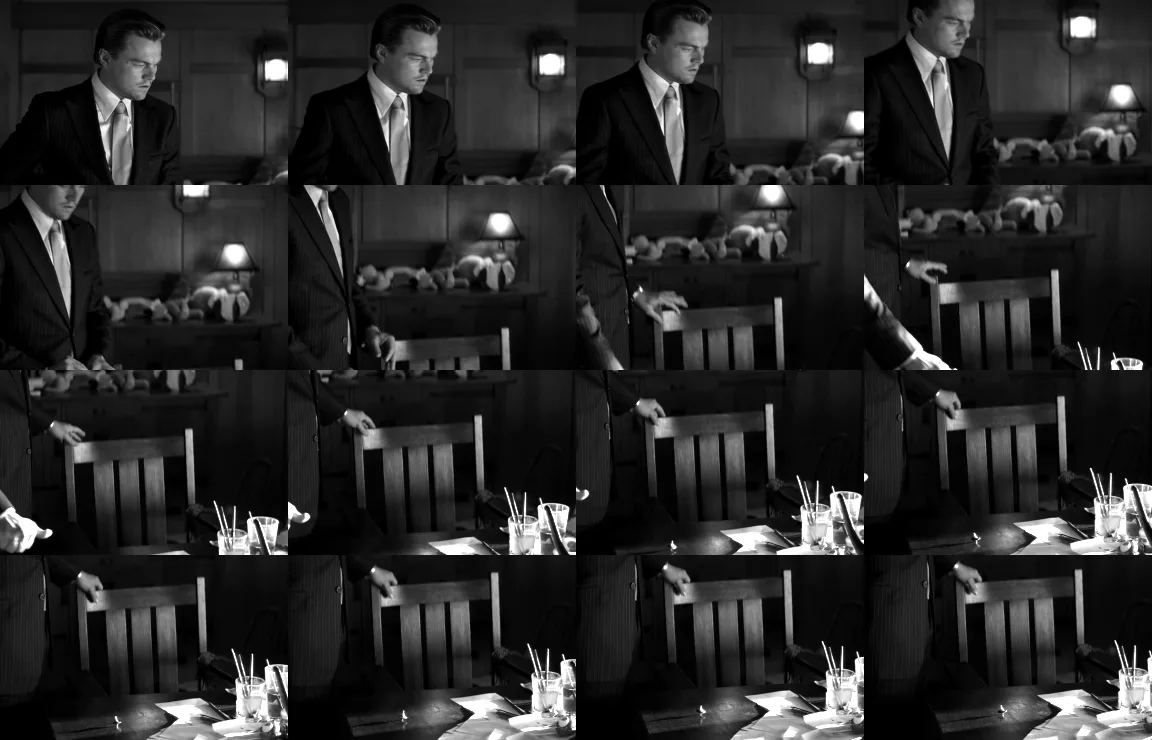
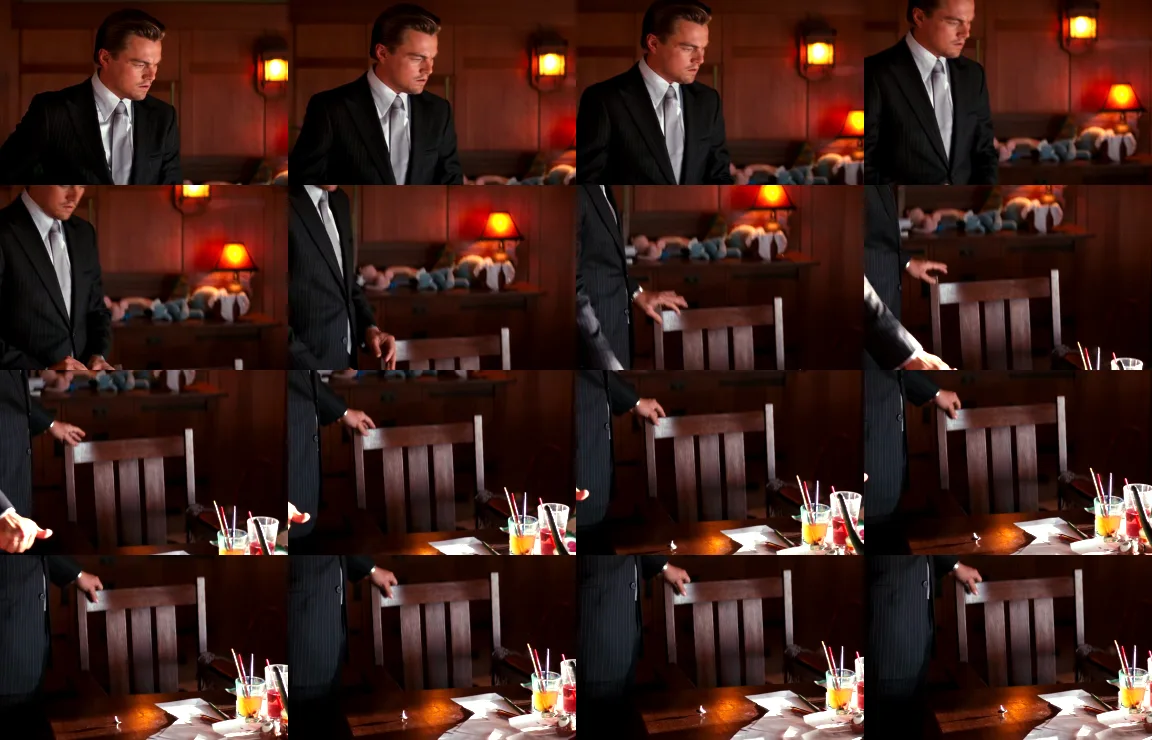
ads spott color

diff --git a/components/landing/film-negatives-scene.ts b/components/landing/film-negatives-scene.ts
@@ -5,8 +5,9 @@ import * as THREE from "three";
  * to edge, rolling through slow waves while the film runs along them. Each
  * strip carries one iconic movie scene, frame by frame, with punched
  * perforations, edge print, a key-code barcode, grain and the odd emulsion
- * scratch. The film is VistaVision:
- * 35 mm run sideways, eight perforations and one wide frame at a time.
+ * scratch. The film is VistaVision: 35 mm run sideways, eight perforations
+ * and one wide frame at a time. Frames print in ink, and bloom into full
+ * colour near the pointer.
  *
  * The strips bend the way real film does: freely across their face (the
  * depth waves), only very gently within their own plane, and with a slow
@@ -124,8 +125,13 @@ const fragment = /* glsl */ `
   uniform vec3 uInk;
   uniform float uInkIsLight;
   uniform float uOpacity;
+  uniform float uBaseOpacity;
   uniform float uFlow;
   uniform float uSeed;
+  // Colour spotlight: pointer in drawing-buffer pixels, radius, strength.
+  uniform vec2 uSpot;
+  uniform float uSpotRadius;
+  uniform float uSpotStrength;
   varying vec2 vFilm;
   varying float vFacing;
   varying float vDepth;
@@ -178,7 +184,8 @@ const fragment = /* glsl */ `
     vec2 atlasUv = (cell + imageUv) / uSceneLayout.yz;
     // Picture density follows the ink, so frames read as photographs on
     // either theme: dark ink prints the shadows, light ink the highlights.
-    float scene = texture2D(uScene, atlasUv).r;
+    vec3 frameColor = texture2D(uScene, atlasUv).rgb;
+    float scene = luma(frameColor);
     float tone = mix(1.0 - scene, scene, uInkIsLight);
     // Each frame is exposed a touch differently, as on real stock.
     tone *= 1.0 + (hash(vec2(frame, uSeed)) - 0.5) * 0.08;
@@ -214,8 +221,16 @@ const fragment = /* glsl */ `
     float shade = mix(0.45, 1.0, vFacing);
     float sheen = pow(1.0 - vFacing, 3.0);
     float fog = 1.0 - smoothstep(9.0, 24.0, vDepth) * 0.55;
-    float alpha = clamp(density, 0.0, 1.0) * edges * shade * fog * uOpacity;
+    float alpha = clamp(density, 0.0, 1.0) * edges * shade * fog * uOpacity * uBaseOpacity;
     vec3 color = mix(uInk, vec3(1.0), sheen * 0.45);
+
+    // Near the pointer the pictures print in full colour, fading smoothly
+    // back to ink with distance; rails and perforations stay film.
+    float spot = 1.0 - smoothstep(uSpotRadius * 0.2, uSpotRadius, distance(gl_FragCoord.xy, uSpot));
+    float colour = spot * spot * (3.0 - 2.0 * spot) * uSpotStrength * inPicture;
+    vec3 print = frameColor * mix(0.6, 1.0, vFacing) + (hash(floor(vec2(a, v) * 260.0)) - 0.5) * 0.05;
+    color = mix(color, clamp(print, 0.0, 1.0), colour);
+    alpha = mix(alpha, edges * fog * uOpacity * 0.94, colour);
 
     gl_FragColor = vec4(color, alpha);
   }
@@ -293,6 +308,11 @@ export async function createFilmNegativesScene(
   const edge = edgePrint(getComputedStyle(document.body).getPropertyValue("--font-mono") || "monospace");
   const ink = { value: readInk(themeSource) };
   const inkIsLight = { value: isLight(ink.value) };
+  // How faint the ink film sits behind the page; colour prints ignore it.
+  const baseOpacity = { value: inkIsLight.value ? 0.35 : 0.45 };
+  const spot = { value: new THREE.Vector2(-1e4, -1e4) };
+  const spotRadius = { value: 300 };
+  const spotStrength = { value: 0 };
   const scene = new THREE.Scene();
 
   // Each strip is a ribbon of SEGMENTS quads whose vertices are rewritten
@@ -338,6 +358,10 @@ export async function createFilmNegativesScene(
         uInk: ink,
         uInkIsLight: inkIsLight,
         uOpacity: { value: strip.opacity },
+        uBaseOpacity: baseOpacity,
+        uSpot: spot,
+        uSpotRadius: spotRadius,
+        uSpotStrength: spotStrength,
         uFlow: { value: 0 },
         uSeed: { value: strip.seed },
       },
@@ -438,6 +462,8 @@ export async function createFilmNegativesScene(
   const startTime = performance.now();
   const pointer = new THREE.Vector2();
   const look = new THREE.Vector2();
+  const spotTarget = new THREE.Vector2();
+  let spotOn = false;
   let scroll = window.scrollY;
   let scrollEased = scroll;
   let rush = 0;
@@ -456,6 +482,8 @@ export async function createFilmNegativesScene(
     scroll = scrolled;
     scrollEased += (scroll - scrollEased) * Math.min(1, dt * 6);
     look.lerp(pointer, Math.min(1, dt * 2));
+    spot.value.lerp(spotTarget, Math.min(1, dt * 10));
+    spotStrength.value += ((spotOn ? 1 : 0) - spotStrength.value) * Math.min(1, dt * 4);
     camera.position.set(
       CAMERA.x + look.x * 0.45,
       CAMERA.y + look.y * 0.3 - scrollEased * 0.0022,
@@ -480,6 +508,7 @@ export async function createFilmNegativesScene(
     const { innerWidth, innerHeight } = window;
     renderer.setPixelRatio(Math.min(window.devicePixelRatio, MAX_DPR));
     renderer.setSize(innerWidth, innerHeight, false);
+    spotRadius.value = 300 * renderer.getPixelRatio();
     camera.aspect = innerWidth / innerHeight;
     camera.updateProjectionMatrix();
     if (reducedMotion) render(performance.now());
@@ -490,11 +519,23 @@ export async function createFilmNegativesScene(
       (event.clientX / window.innerWidth) * 2 - 1,
       1 - (event.clientY / window.innerHeight) * 2,
     );
+    // The canvas fills the viewport, so client pixels map straight onto it.
+    const ratio = renderer.getPixelRatio();
+    spotTarget.set(event.clientX * ratio, (window.innerHeight - event.clientY) * ratio);
+    if (!spotOn) spot.value.copy(spotTarget);
+    spotOn = true;
+  };
+  const onPointerEnd = (event: PointerEvent) => {
+    // Leaving the window, or lifting a finger, lets the colour fade out.
+    if (event.type === "pointerout" ? !event.relatedTarget : event.pointerType !== "mouse") {
+      spotOn = false;
+    }
   };
 
   const themeObserver = new MutationObserver(() => {
     ink.value = readInk(themeSource);
     inkIsLight.value = isLight(ink.value);
+    baseOpacity.value = inkIsLight.value ? 0.35 : 0.45;
     if (reducedMotion) render(performance.now());
   });
   themeObserver.observe(document.documentElement, {
@@ -505,6 +546,9 @@ export async function createFilmNegativesScene(
   window.addEventListener("resize", resize);
   if (!reducedMotion) {
     window.addEventListener("pointermove", onPointer, { passive: true });
+    window.addEventListener("pointerout", onPointerEnd, { passive: true });
+    window.addEventListener("pointerup", onPointerEnd, { passive: true });
+    window.addEventListener("pointercancel", onPointerEnd, { passive: true });
     frame = requestAnimationFrame(tick);
   }
   resize();
@@ -516,6 +560,9 @@ export async function createFilmNegativesScene(
       themeObserver.disconnect();
       window.removeEventListener("resize", resize);
       window.removeEventListener("pointermove", onPointer);
+      window.removeEventListener("pointerout", onPointerEnd);
+      window.removeEventListener("pointerup", onPointerEnd);
+      window.removeEventListener("pointercancel", onPointerEnd);
       for (const ribbon of ribbons) {
         ribbon.geometry.dispose();
         ribbon.material.dispose();

diff --git a/app/(pages)/page.tsx b/app/(pages)/page.tsx
@@ -7,12 +7,20 @@ import CinemaGrid from "@/components/landing/CinemaGrid";
 import JuryReveal from "@/components/landing/JuryReveal";
 import FilmNegatives from "@/components/landing/FilmNegatives";
 import styles from "@/components/landing/CinemaHero.module.css";
+import { fontDisplay } from "@/config/fonts";
 
 export const metadata: Metadata = {
   title: { absolute: "Paradiso — cinema for your circle" },
   description:
     "Find your next favorite film, gather your people, and make a night of it with Paradiso.",
 };
+
+// Each verb is finished by a small tag: "Gather your people", etc.
+const verbs = [
+  { word: "Gather", rest: "your people", indent: "0cqi" },
+  { word: "Pick", rest: "the films", indent: "16cqi" },
+  { word: "Judge", rest: "the winner", indent: "5cqi", accent: true },
+];
 
 export default async function Home() {
   "use cache";
@@ -31,7 +39,6 @@ export default async function Home() {
         </h1>
         <div className={styles.hero}>
           <ParadisoWordmark />
-          <CinemaGrid />
         </div>
         <div className="flex items-end justify-between gap-10 pb-14 pt-12 [&>h2]:text-[clamp(38px,4.2vw,68px)] [&>h2]:font-semibold [&>h2]:leading-[1.08] [&>h2]:tracking-[-0.065em] [&>h2_span]:font-serif [&>h2_span]:font-normal [&>h2_span]:italic [&>h2_span]:tracking-[-0.045em] max-sm:flex-col max-sm:items-start max-sm:gap-6 max-sm:pb-9 max-sm:pt-8 max-sm:[&>h2]:text-[clamp(34px,10.8vw,48px)]">
           <h2>
@@ -48,6 +55,45 @@ export default async function Home() {
               Enter dashboard <ArrowUpRight size={21} aria-hidden="true" />
             </Link>
           </div>
+        </div>
+      </section>
+      <section
+        id="the-archive"
+        className="mx-auto grid max-w-[1600px] scroll-mt-32 grid-cols-2 items-center gap-[clamp(24px,4vw,72px)] border-t border-line py-[clamp(56px,7vw,112px)] max-sm:grid-cols-1 max-sm:gap-12"
+        aria-labelledby="archive-title"
+      >
+        <div className={`${fontDisplay.variable} relative z-10 [container-type:inline-size]`}>
+          <h2 id="archive-title" className="flex w-full flex-col">
+            {verbs.map(({ word, rest, indent, accent }, index) => (
+              <span
+                key={word}
+                className="flex items-end gap-[2.5cqi]"
+                style={{ paddingLeft: indent }}
+              >
+                <span
+                  className={
+                    accent
+                      ? "-rotate-2 font-[family-name:var(--font-display)] text-[25cqi] font-black italic leading-[0.9] tracking-[-0.03em] text-accent"
+                      : "text-[22cqi] font-black leading-[0.86] tracking-[-0.075em]"
+                  }
+                >
+                  {word}
+                </span>
+                <span className="mb-[2cqi] max-w-[18cqi] text-[clamp(11px,1.9cqi,15px)] font-extrabold uppercase leading-[1.15] tracking-[0.12em]">
+                  <span className="block font-mono text-accent" aria-hidden="true">
+                    {String(index + 1).padStart(2, "0")}
+                  </span>
+                  {rest}
+                </span>
+              </span>
+            ))}
+          </h2>
+        </div>
+        <div className="grid">
+          <CinemaGrid />
+          <p className="mt-4 justify-self-end font-mono text-[11px] uppercase tracking-[0.16em] text-muted">
+            Hover a frame to reveal the film
+          </p>
         </div>
       </section>
       <section

diff --git a/components/landing/FilmNegatives.tsx b/components/landing/FilmNegatives.tsx
@@ -6,8 +6,8 @@ import type { FilmNegativesScene, FilmScene } from "./film-negatives-scene";
 // Sixteen near-consecutive frames per scene, pre-graded and packed 4x4.
 // Each movie lists one or more scenes; a strip shows one movie.
 const MOVIES: string[][] = [
-  // Cinema Paradiso: the front rows at the cinema, and frames by lamplight.
-  ["paradiso-cinema", "paradiso-lamp"],
+  // 2001: A Space Odyssey: the bone thrown skyward, cut to the satellite.
+  ["space-odyssey"],
   // The Matrix: the bullet dodge.
   ["matrix"],
   // Pulp Fiction: the twist contest.
@@ -73,7 +73,7 @@ export default function FilmNegatives() {
     <canvas
       ref={canvasRef}
       aria-hidden="true"
-      className={`pointer-events-none fixed inset-0 -z-10 h-full w-full transition-opacity duration-[1600ms] ${ready ? "opacity-45 dark:opacity-35" : "opacity-0"}`}
+      className={`pointer-events-none fixed inset-0 -z-10 h-full w-full transition-opacity duration-[1600ms] ${ready ? "opacity-100" : "opacity-0"}`}
     />
   );
 }

diff --git a/features/rooms/RoomsPage.tsx b/features/rooms/RoomsPage.tsx
@@ -30,7 +30,6 @@ export default function RoomsPage() {
     <div>
       <div className="mb-10 flex items-end justify-between gap-6 border-b border-line pb-9 max-sm:mb-7 max-sm:flex-col max-sm:items-start max-sm:pb-7 max-sm:[&>button]:w-full">
         <div>
-          <p className="mb-3.5 text-sm font-semibold uppercase tracking-[0.09em] text-accent">Your cinema, together</p>
           <h1 className="mb-4 break-words text-[clamp(36px,4.8vw,68px)] tracking-[-0.06em] [&_em]:font-serif [&_em]:font-normal max-sm:text-[38px]">
             Make room for
             <br />
